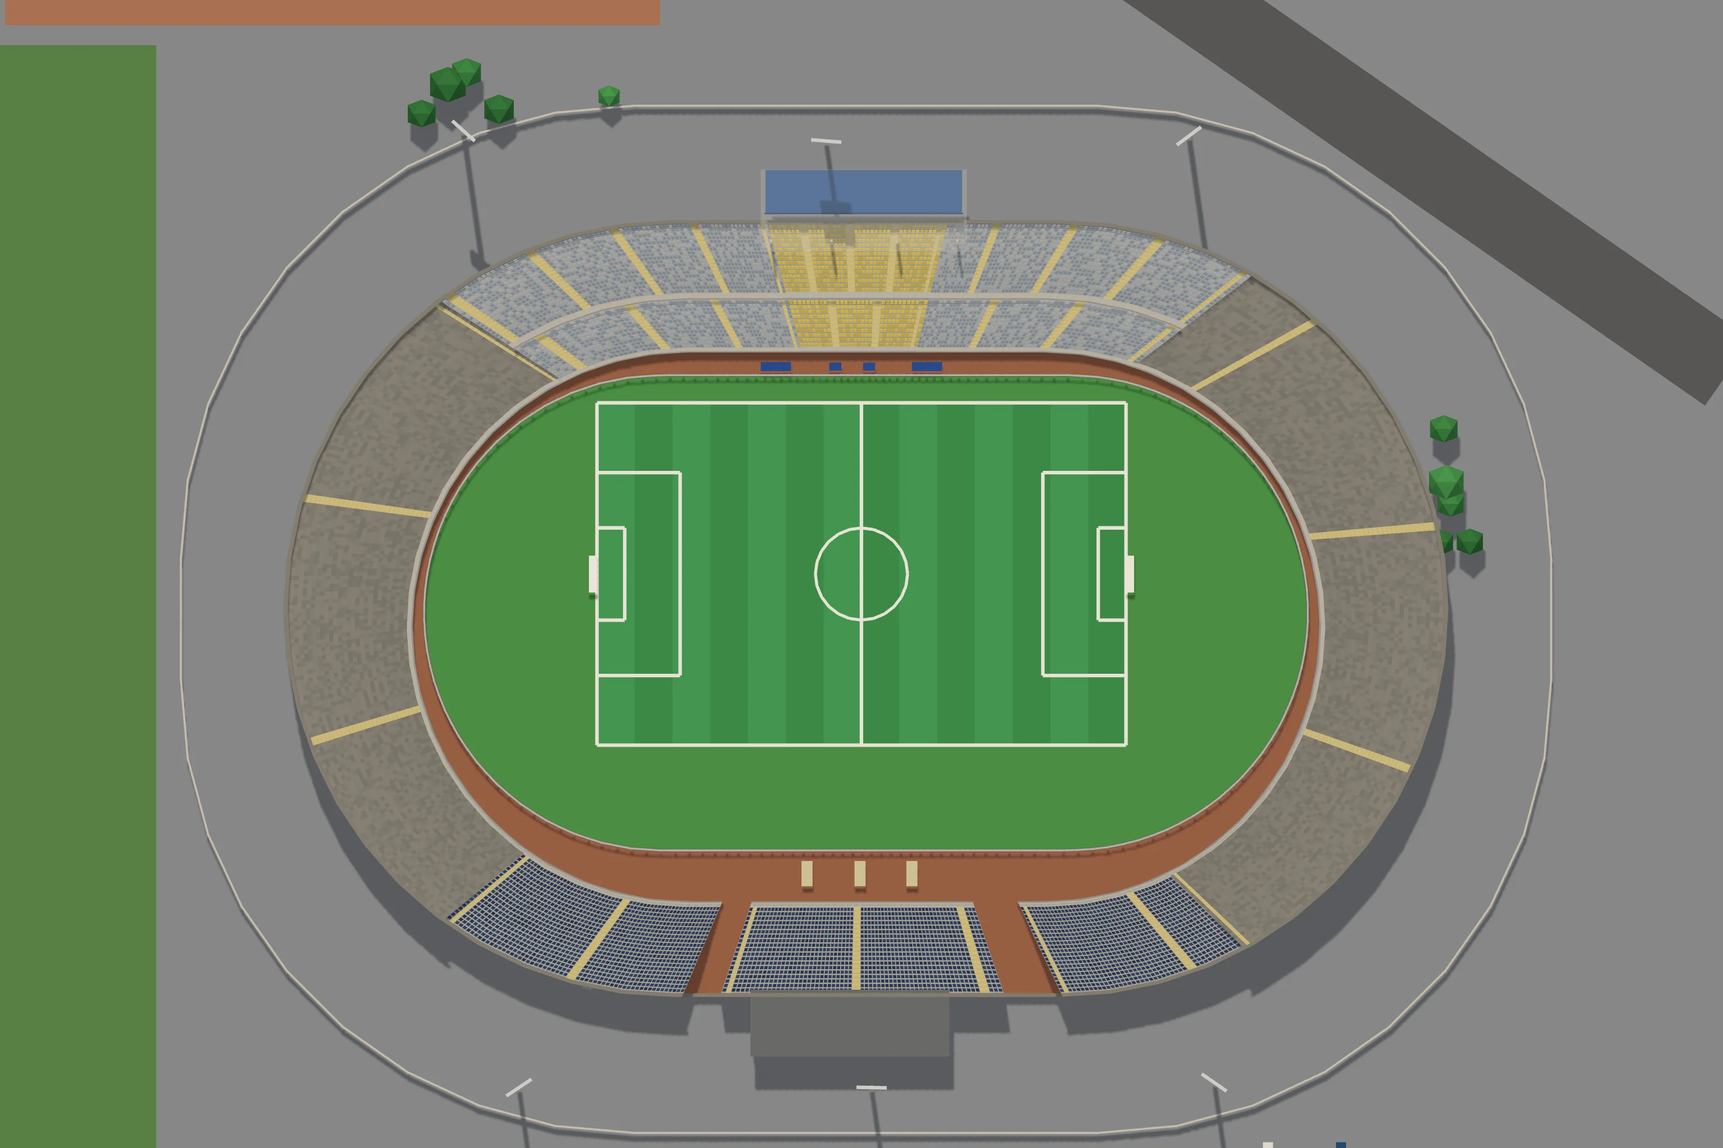
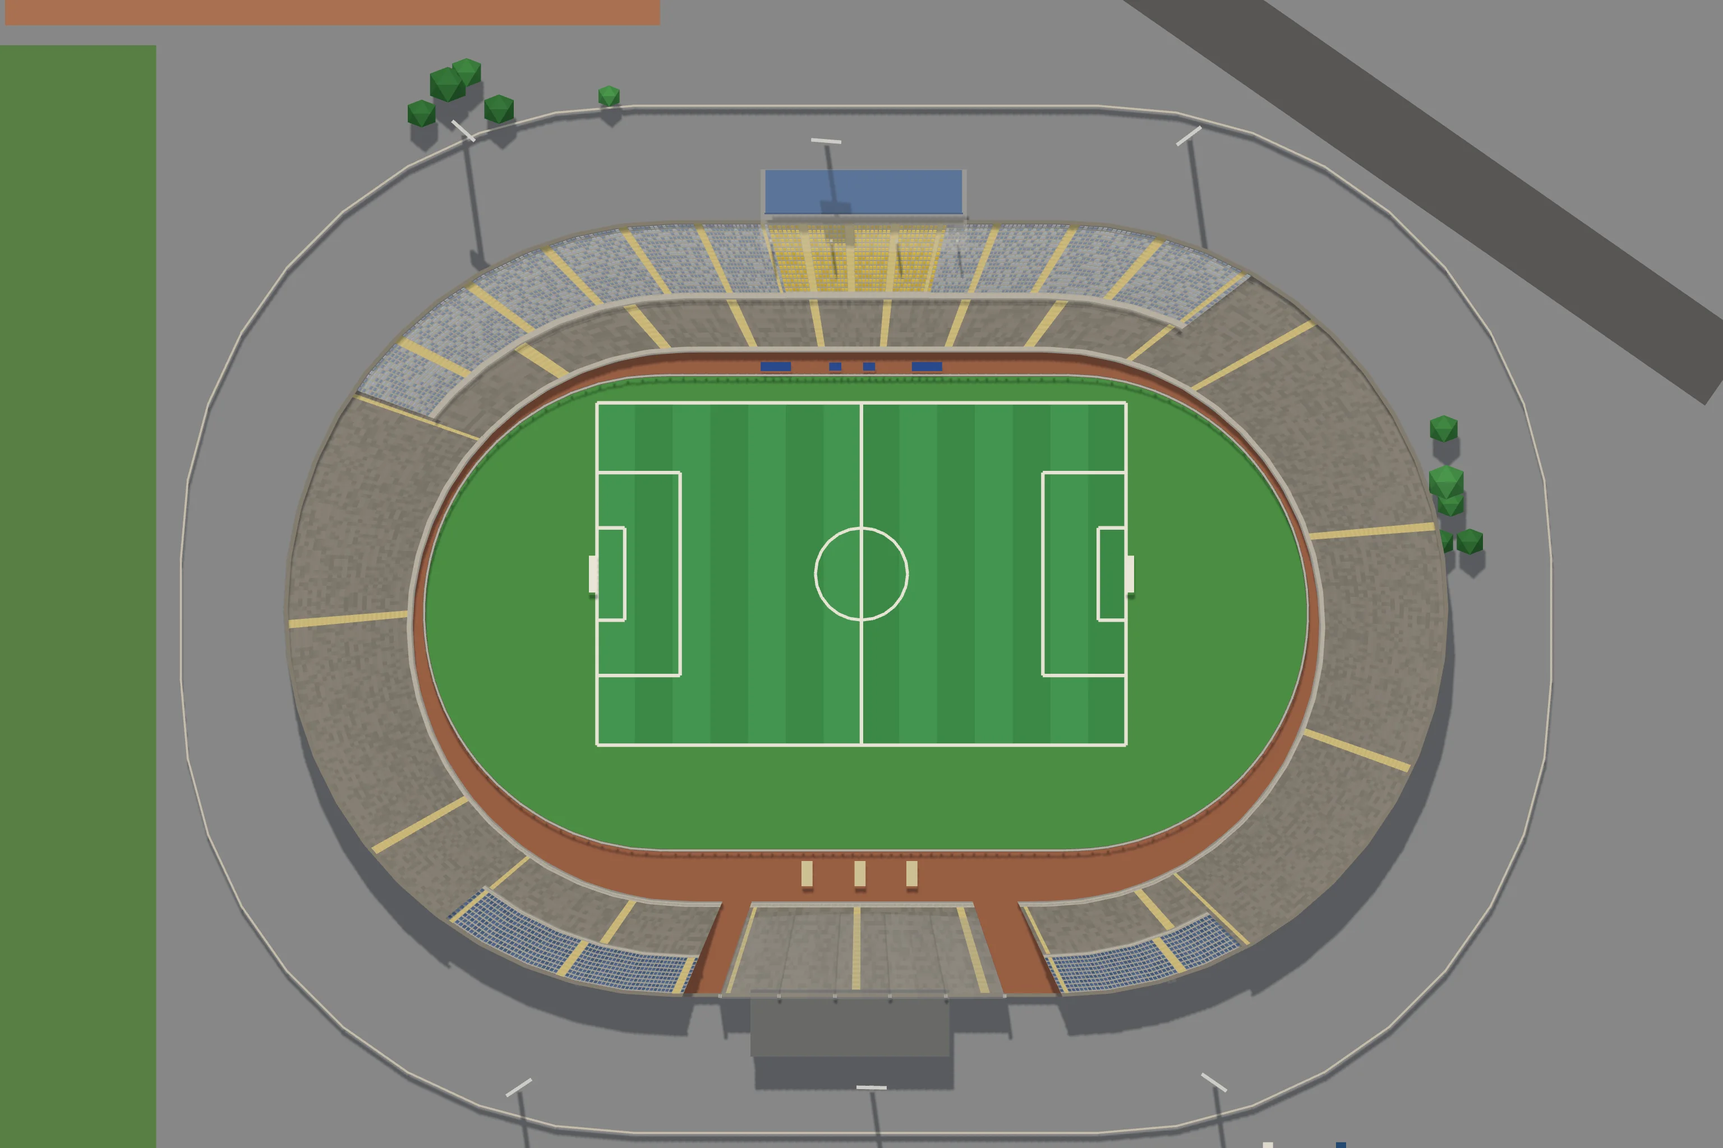
Serejão: cadeira só nos degraus de cima das laterais
Claude-Session: https://claude.ai/code/session_019hwwMAyyP7ZAvyq6wYTetr

diff --git a/cenario3d/planta.html b/cenario3d/planta.html
@@ -289,24 +289,24 @@ button:focus-visible, input:focus-visible { outline: 2px solid var(--selecao); o
 
 <script type="module">
 import * as THREE from 'https://cdn.jsdelivr.net/npm/three@0.160.0/build/three.module.min.js';
-import { planoDaCasa, montarCasa, juntarBlocos, lugarDoDecalque, placasDoLote, segmentosDoMuro, carrosDoEstacionamento, portaoDoEstacionamento } from './js/casas3d.js?v=487b9dc177';
-import { montarModelos } from './js/modelos3d.js?v=487b9dc177';
-import { moldeDaPeca, comTransformador } from './js/props3d.js?v=487b9dc177';
-import { ATLAS } from './js/modelos_atlas.js?v=487b9dc177';
-import { Construtor, sorteio } from './js/construtor3d.js?v=487b9dc177';
-import { gerarProposta, MAPAS, MAPA_DO_PORTE, RUA, LONGE_DO_ESTADIO_M, cisaoDaPraca, VAO_CIDADES_M, PRAIA_A_MAIS } from './js/proposta.js?v=487b9dc177';
-import { montarSede, nivelQueCabe } from './js/sede3d.js?v=487b9dc177';
-import { onibus as onibusDetalhe, juntar as juntarDetalhe } from './js/detalhe3d.js?v=487b9dc177';
-import { montarLoteDeVeraneio, plantaDoLote, festaNoMundo, noMundoDoLote, cenaDaFesta, detalheDaCasaDaFesta } from './js/veraneio3d.js?v=487b9dc177';
-import { montarCaravana, cenaDaCaravana } from './js/caravana3d.js?v=487b9dc177';
-import { montarEstacao, montarTunel, montarCarro, TREM } from './js/metro3d.js?v=487b9dc177';
-import { montarShopping, montarDelegacia, montarPraca, montarIgreja, montarEscola, montarHospital } from './js/equip3d.js?v=487b9dc177';
-import { montarEquipAntigo, TIPOS_ANTIGOS } from './js/equip_antigo3d.js?v=487b9dc177';
-import { PECAS_PRAIA, montarPecaDaPraia } from './js/praia3d.js?v=487b9dc177';
-import { ESPECIES_LP, FLORA_LP, montarArvoreLowpoly, montarAsDez, facesDaArvore, especieLowpolyDe } from './js/arvores_lowpoly.js?v=487b9dc177';
-import { plantarMato, montarMato, LONGE_M, DENSIDADE, LADRILHO_M } from './js/mato3d.js?v=487b9dc177';
-import { ESTADIOS_JOGO, montarEstadioJogo, glbDoEstadio, cortarEstadio, plantaDoEstadio, modeloDaLotacao, nomeDoLetreiro, nomeComAcento, marcaDoEstadio, BOCAS_DOS_PORTOES, BILHETERIAS_DA_RUA } from './js/estadios3d.js?v=487b9dc177';
-import { PECAS_AMBULANTES, montarAmbulante } from './js/ambulantes3d.js?v=487b9dc177';
+import { planoDaCasa, montarCasa, juntarBlocos, lugarDoDecalque, placasDoLote, segmentosDoMuro, carrosDoEstacionamento, portaoDoEstacionamento } from './js/casas3d.js?v=b291f77d5a';
+import { montarModelos } from './js/modelos3d.js?v=b291f77d5a';
+import { moldeDaPeca, comTransformador } from './js/props3d.js?v=b291f77d5a';
+import { ATLAS } from './js/modelos_atlas.js?v=b291f77d5a';
+import { Construtor, sorteio } from './js/construtor3d.js?v=b291f77d5a';
+import { gerarProposta, MAPAS, MAPA_DO_PORTE, RUA, LONGE_DO_ESTADIO_M, cisaoDaPraca, VAO_CIDADES_M, PRAIA_A_MAIS } from './js/proposta.js?v=b291f77d5a';
+import { montarSede, nivelQueCabe } from './js/sede3d.js?v=b291f77d5a';
+import { onibus as onibusDetalhe, juntar as juntarDetalhe } from './js/detalhe3d.js?v=b291f77d5a';
+import { montarLoteDeVeraneio, plantaDoLote, festaNoMundo, noMundoDoLote, cenaDaFesta, detalheDaCasaDaFesta } from './js/veraneio3d.js?v=b291f77d5a';
+import { montarCaravana, cenaDaCaravana } from './js/caravana3d.js?v=b291f77d5a';
+import { montarEstacao, montarTunel, montarCarro, TREM } from './js/metro3d.js?v=b291f77d5a';
+import { montarShopping, montarDelegacia, montarPraca, montarIgreja, montarEscola, montarHospital } from './js/equip3d.js?v=b291f77d5a';
+import { montarEquipAntigo, TIPOS_ANTIGOS } from './js/equip_antigo3d.js?v=b291f77d5a';
+import { PECAS_PRAIA, montarPecaDaPraia } from './js/praia3d.js?v=b291f77d5a';
+import { ESPECIES_LP, FLORA_LP, montarArvoreLowpoly, montarAsDez, facesDaArvore, especieLowpolyDe } from './js/arvores_lowpoly.js?v=b291f77d5a';
+import { plantarMato, montarMato, LONGE_M, DENSIDADE, LADRILHO_M } from './js/mato3d.js?v=b291f77d5a';
+import { ESTADIOS_JOGO, montarEstadioJogo, glbDoEstadio, cortarEstadio, plantaDoEstadio, modeloDaLotacao, nomeDoLetreiro, nomeComAcento, marcaDoEstadio, BOCAS_DOS_PORTOES, BILHETERIAS_DA_RUA } from './js/estadios3d.js?v=b291f77d5a';
+import { PECAS_AMBULANTES, montarAmbulante } from './js/ambulantes3d.js?v=b291f77d5a';
 
 const $ = id => document.getElementById(id);
 const aviso = $('aviso');
@@ -323,25 +323,25 @@ function carregarScript(src) {
 }
 window.TO = window.TO || { dados: {} };
 try {
-  await carregarScript('dados/torcidas.js?v=487b9dc177');
-  await carregarScript('dados/times.js?v=487b9dc177');
-  await carregarScript('dados/cena_estadio.js?v=487b9dc177');
-  await carregarScript('dados/cidades.js?v=487b9dc177');
-  await carregarScript('dados/estadios.js?v=487b9dc177');
-  await carregarScript('dados/escudos.js?v=487b9dc177');
+  await carregarScript('dados/torcidas.js?v=b291f77d5a');
+  await carregarScript('dados/times.js?v=b291f77d5a');
+  await carregarScript('dados/cena_estadio.js?v=b291f77d5a');
+  await carregarScript('dados/cidades.js?v=b291f77d5a');
+  await carregarScript('dados/estadios.js?v=b291f77d5a');
+  await carregarScript('dados/escudos.js?v=b291f77d5a');
   /* o manifesto das faixas de verdade (a arte do dono, 29/09/2026): a arquibancada estende a da torcida */
-  await carregarScript('dados/faixas.js?v=487b9dc177').catch(() => {});
+  await carregarScript('dados/faixas.js?v=b291f77d5a').catch(() => {});
   /* O DOMÍNIO DOS BAIRROS (o dono, 30/09/2026): as sedes repetidas num
      bairro saem espalhadas (nos dados, na carga) e os bares ganham o
      bairro deles — o mesmo módulo do jogo (js/mundo/dominio.js) */
-  await carregarScript('js/dominio.js?v=487b9dc177').catch(() => {});
+  await carregarScript('js/dominio.js?v=b291f77d5a').catch(() => {});
 } catch (e) {
   aviso.textContent = 'A planta da cidade não carregou (' + e.message + '). Recarregue a página.';
   throw e;
 }
 /* os PNG dos escudos, embutidos (o montar.sh gera): sem o arquivo, o
    caminho vai direto pra img/escudos/ */
-await carregarScript('dados/escudos_embutidos.js?v=487b9dc177').catch(() => {});
+await carregarScript('dados/escudos_embutidos.js?v=b291f77d5a').catch(() => {});
 const P = TO.dados.plantaEstadio, K = P.CIDADE, M = P.METRO, CALC = K.CALC;
 /* o mapa da vez (o pequeno, o médio ou o grande, montado pra praça
    escolhida): quem monta é usarMapa, lá embaixo */

diff --git a/cenario3d/dados/estadios_cenas.js b/cenario3d/dados/estadios_cenas.js
@@ -16390,8 +16390,8 @@ window.__ESTADIOS = {
    "visitante": 3
   },
   "foto": {
-   "imagem": "img/cenas/estadio_serejao.webp?v=6e02911c",
-   "mascara": "384;384;384;384;384;384;384;384;384;384;384;384;384;384;384;384;384;384;384;384;384;384;384;384;384;384;384;384;384;384;384;384;384;384;384;384;384;384;384;384;384;384;384;384;384;384;384;384;384;384;138,110,136;133,120,131;128,130,126;125,136,123;122,142,120;119,148,117;116,154,114;114,158,112;112,162,110;110,166,108;108,170,106;106,175,103;105,178,101;103,181,100;102,184,98;100,187,97;99,190,95;96,194,94;95,196,93;94,198,92;93,200,91;91,204,89;90,206,88;89,208,87;88,210,86;87,212,85;86,214,84;85,216,83;85,216,83;84,218,82;83,220,81;82,222,80;81,224,79;80,61,104,61,78;80,56,114,56,78;79,53,122,53,77;78,51,128,51,76;78,48,134,48,76;77,47,138,47,75;76,46,142,46,74;76,44,146,44,74;75,44,148,44,73;75,42,152,43,72;74,42,154,42,72;74,41,156,41,72;73,40,160,40,71;73,39,162,39,71;72,39,164,39,70;72,38,166,38,70;71,38,168,38,69;71,37,170,37,69;70,37,172,37,68;70,36,174,36,68;69,37,174,37,67;69,36,176,36,67;69,35,178,35,67;68,35,180,35,66;68,35,180,35,66;68,34,182,34,66;67,34,184,34,65;67,34,184,34,65;67,33,186,33,65;66,34,186,34,64;66,33,188,33,64;66,33,188,33,64;66,32,190,32,64;65,33,190,33,63;65,32,192,32,63;65,32,192,32,63;65,32,192,32,63;65,31,194,31,63;64,32,194,32,62;64,32,194,32,62;64,31,196,31,62;64,31,196,31,62;64,31,196,31,62;64,31,196,31,62;64,31,196,31,62;64,30,198,30,62;64,30,198,31,61;63,31,198,31,61;63,31,198,31,61;63,31,198,31,61;63,31,198,31,61;63,31,198,31,61;63,31,198,31,61;63,31,198,31,61;63,31,198,31,61;63,31,198,31,61;63,31,198,31,61;63,31,198,31,61;63,31,198,31,61;64,30,198,30,62;64,30,198,30,62;64,30,198,30,62;64,31,196,31,62;64,31,196,31,62;64,31,196,31,62;64,31,196,31,62;64,31,196,31,62;65,31,194,32,62;65,31,194,31,63;65,31,194,31,63;65,32,192,32,63;65,32,192,32,63;66,31,192,32,63;66,32,190,32,64;66,32,190,32,64;66,33,188,33,64;66,33,188,33,64;67,33,186,33,65;67,33,186,33,65;67,34,184,34,65;68,33,184,33,66;68,34,182,34,66;68,34,182,34,66;69,34,180,34,67;69,35,178,35,67;70,34,178,35,67;70,35,176,35,68;70,36,174,36,68;71,36,172,36,69;71,37,170,37,69;72,37,168,37,70;72,38,166,38,70;73,38,164,38,71;73,39,162,39,71;74,39,160,39,72;74,40,158,40,72;75,41,155,40,73;76,41,152,42,73;76,42,150,42,74;77,43,146,43,75;78,44,142,45,75;78,46,138,46,76;79,47,134,47,77;80,48,130,49,77;80,51,124,51,78;81,53,118,53,79;82,57,108,57,80;83,220,81;83,220,81;84,218,82;85,216,83;86,214,84;87,212,85;88,210,86;89,208,87;90,206,88;91,204,89;92,202,90;93,200,91;94,198,92;96,194,94;97,192,95;98,190,96;100,186,98;101,184,99;103,180,101;104,178,102;106,174,104;108,170,106;110,166,108;112,162,110;114,158,112;116,154,114;118,150,116;121,144,119;124,138,122;128,130,126;133,120,131;138,110,136;384;384;384;384;384;384;384;384;384;384;384;384;384;384;384;384;384;384;384;384;384;384;384;384;384;384;384;384;384;384;384;384;384;384"
+   "imagem": "img/cenas/estadio_serejao.webp?v=9d9e049d",
+   "mascara": "384;384;384;384;384;384;384;384;384;384;384;384;384;384;384;384;384;384;384;384;384;384;384;384;384;384;384;384;384;384;384;384;384;384;384;384;384;384;384;384;384;384;384;384;384;384;384;384;384;384;138,110,136;133,120,131;128,130,126;125,136,123;122,142,120;119,148,117;116,154,114;114,158,112;112,162,110;110,166,108;108,170,106;106,175,103;105,178,101;103,181,100;102,184,98;100,187,97;99,190,95;97,193,94;96,195,93;95,197,92;94,199,91;93,202,89;91,205,88;90,207,87;89,209,86;88,211,85;87,213,84;87,214,83;86,215,83;85,217,82;84,219,81;83,221,80;82,223,79;81,60,104,61,78;81,55,114,56,78;80,52,122,53,77;79,50,128,51,76;78,48,134,48,76;77,47,138,47,75;76,46,142,46,74;76,44,146,44,74;75,44,148,44,73;75,42,152,43,72;74,42,154,42,72;74,41,156,41,72;73,40,160,40,71;73,39,162,39,71;72,39,164,39,70;72,38,166,38,70;71,38,168,38,69;71,37,170,37,69;70,37,172,37,68;70,36,174,36,68;69,37,174,37,67;69,36,176,36,67;69,35,178,35,67;68,35,180,35,66;68,35,180,35,66;68,34,182,34,66;67,34,184,34,65;67,34,184,34,65;67,33,186,33,65;66,34,186,34,64;66,33,188,33,64;66,33,188,33,64;66,32,190,32,64;65,33,190,33,63;65,32,192,32,63;65,32,192,32,63;65,32,192,32,63;65,31,194,31,63;64,32,194,32,62;64,32,194,32,62;64,31,196,31,62;64,31,196,31,62;64,31,196,31,62;64,31,196,31,62;64,31,196,31,62;64,30,198,30,62;64,30,198,31,61;63,31,198,31,61;63,31,198,31,61;63,31,198,31,61;63,31,198,31,61;63,31,198,31,61;63,31,198,31,61;63,31,198,31,61;63,31,198,31,61;63,31,198,31,61;63,31,198,31,61;63,31,198,31,61;63,31,198,31,61;64,30,198,30,62;64,30,198,30,62;64,30,198,30,62;64,31,196,31,62;64,31,196,31,62;64,31,196,31,62;64,31,196,31,62;64,31,196,31,62;65,31,194,32,62;65,31,194,31,63;65,31,194,31,63;65,32,192,32,63;65,32,192,32,63;66,31,192,32,63;66,32,190,32,64;66,32,190,32,64;66,33,188,33,64;66,33,188,33,64;67,33,186,33,65;67,33,186,33,65;67,34,184,34,65;68,33,184,33,66;68,34,182,34,66;68,34,182,34,66;69,34,180,34,67;69,35,178,35,67;70,34,178,35,67;70,35,176,35,68;70,36,174,36,68;71,36,172,36,69;71,37,170,37,69;72,37,168,37,70;72,38,166,38,70;73,38,164,38,71;73,39,162,39,71;74,39,160,39,72;74,40,158,40,72;75,41,155,40,73;76,41,152,42,73;76,42,150,42,74;77,43,146,43,75;78,44,142,45,75;78,46,138,46,76;79,47,134,47,77;80,48,130,49,77;80,51,124,51,78;81,53,118,53,79;82,57,108,57,80;83,220,81;83,220,81;84,218,82;85,216,83;86,214,84;87,212,85;88,210,86;89,208,87;90,206,88;91,204,89;92,202,90;93,200,91;94,198,92;96,194,94;97,192,95;100,188,96;101,185,98;103,182,99;104,179,101;106,176,102;107,173,104;109,169,106;111,164,109;113,160,111;115,156,113;118,150,116;121,144,119;124,138,122;127,132,125;131,124,129;136,114,134;147,92,145;384;384;384;384;384;384;384;384;384;384;384;384;384;384;384;384;384;384;384;384;384;384;384;384;384;384;384;384;384;384;384;384;384;384"
   },
   "cena": {
    "nome": "Serejão",
@@ -16597,8 +16597,8 @@ window.__ESTADIOS = {
       "y": 702
      },
      "ate": {
-      "x": 762,
-      "y": 545
+      "x": 765,
+      "y": 547
      },
      "modulos": 11,
      "espessura": 10

diff --git a/cenario3d/js/jogo2d.js b/cenario3d/js/jogo2d.js
@@ -17,7 +17,7 @@
    cartão da partida cai perto da hora da bola e nada do que conta o
    placar passa na frente dele.
    ========================================================= */
-import { CASCA } from './jogo_casca.js?v=487b9dc177';
+import { CASCA } from './jogo_casca.js?v=b291f77d5a';
 
 const carregarScript = src => new Promise((ok, erro) => {
   const s = document.createElement('script');
@@ -31,18 +31,18 @@ async function montarJogo() {
   caixa.innerHTML = CASCA;
   while (caixa.firstChild) document.body.appendChild(caixa.firstChild);
   /* os escudos, as fotos das praças e as bandeiras embutidos (o `IMG()` do jogo procura aqui antes do caminho) */
-  await carregarScript('dados/imagens_jogo.js?v=487b9dc177').catch(() => {});
+  await carregarScript('dados/imagens_jogo.js?v=b291f77d5a').catch(() => {});
   /* os estádios low-poly das cenas (ferramentas/estadios/assar.js): antes do jogo, que monta as cenas quando carrega */
-  await carregarScript('dados/estadios_cenas.js?v=487b9dc177').catch(() => {});
-  await carregarScript('dados/arredores_cenas.js?v=487b9dc177').catch(() => {});
+  await carregarScript('dados/estadios_cenas.js?v=b291f77d5a').catch(() => {});
+  await carregarScript('dados/arredores_cenas.js?v=b291f77d5a').catch(() => {});
   /* sem o rolo do feed: a tela entre os jogos é o portal */
   window.TO = window.TO || {};
   TO.semFeed = true;
-  await carregarScript('js/jogo.js?v=487b9dc177');
-  await carregarScript('js/portal.js?v=487b9dc177').catch(err => console.error('o portal não carregou:', err));
+  await carregarScript('js/jogo.js?v=b291f77d5a');
+  await carregarScript('js/portal.js?v=b291f77d5a').catch(err => console.error('o portal não carregou:', err));
   /* o boneco das cenas de imagem (os dois níveis afinados, em base64) */
-  if (!TO.dados.bonecoPertoGLB) await carregarScript('dados/boneco_glb.js?v=487b9dc177').catch(() => {});
-  await import('./bonecos3_global.js?v=487b9dc177').catch(err => console.error('o boneco das cenas não carregou:', err));
+  if (!TO.dados.bonecoPertoGLB) await carregarScript('dados/boneco_glb.js?v=b291f77d5a').catch(() => {});
+  await import('./bonecos3_global.js?v=b291f77d5a').catch(err => console.error('o boneco das cenas não carregou:', err));
   ligar();
 }
 

diff --git a/cenario3d/jogo.html b/cenario3d/jogo.html
@@ -9,16 +9,16 @@
 <link rel="preconnect" href="https://fonts.googleapis.com">
 <link rel="preconnect" href="https://fonts.gstatic.com" crossorigin>
 <link rel="stylesheet" href="https://fonts.googleapis.com/css2?family=Barlow+Semi+Condensed:wght@500;600;700&family=Barlow:wght@400;500;600&family=IBM+Plex+Mono:wght@400;500&display=swap">
-<link rel="stylesheet" href="css/jogo.css?v=487b9dc177">
-<link rel="stylesheet" href="css/jogo3d.css?v=487b9dc177">
-<link rel="stylesheet" href="css/portal.css?v=487b9dc177">
-<link rel="stylesheet" href="css/telas3d.css?v=487b9dc177">
+<link rel="stylesheet" href="css/jogo.css?v=b291f77d5a">
+<link rel="stylesheet" href="css/jogo3d.css?v=b291f77d5a">
+<link rel="stylesheet" href="css/portal.css?v=b291f77d5a">
+<link rel="stylesheet" href="css/telas3d.css?v=b291f77d5a">
 <style>
 [hidden] { display: none !important; }
 html, body { height: 100%; margin: 0; }
 </style>
 </head>
 <body class="jogo3d">
-<script type="module" src="js/jogo2d.js?v=487b9dc177"></script>
+<script type="module" src="js/jogo2d.js?v=b291f77d5a"></script>
 </body>
 </html>

diff --git a/cenario3d/js/casas3d.js b/cenario3d/js/casas3d.js
@@ -60,10 +60,10 @@
    avançam (`rec`), e o letreiro, a pixação e a falha de reboco do
    bairro vão pro plano dessa parede, não pro da divisa.
    ========================================================= */
-import { Construtor, METRO, mureta, toldo, arSplit, sorteio } from './construtor3d.js?v=487b9dc177';
-import { ATLAS } from './modelos_atlas.js?v=487b9dc177';
+import { Construtor, METRO, mureta, toldo, arSplit, sorteio } from './construtor3d.js?v=b291f77d5a';
+import { ATLAS } from './modelos_atlas.js?v=b291f77d5a';
 /* as lojas do assalto (lojas3d.js): modelos de lote como os outros */
-import { TIPOS_LOJA, REC_LOJA, placaDaLoja } from './lojas3d.js?v=487b9dc177';
+import { TIPOS_LOJA, REC_LOJA, placaDaLoja } from './lojas3d.js?v=b291f77d5a';
 
 /* o arquivo de cada folha, pro bairro montar o material dele */
 export const arquivoDaFolha = folha => ATLAS[folha].arquivo;

diff --git a/cenario3d/js/ambulantes3d.js b/cenario3d/js/ambulantes3d.js
@@ -27,8 +27,8 @@
    que a planta acha o lugar dela na calçada do estádio. `sol`: o meio e
    o raio da copa ([x, z, r]), que o mapa desenha de perto.
    ========================================================= */
-import { Construtor, noMundo, placasNoMundo, sorteio, esfera, unit } from './construtor3d.js?v=487b9dc177';
-import { Lugar, barra, tubo, cilindro, bloco, pano, toro, guardaSol, cadeiraPlastica, isopor, banqueta, CORES_SOL } from './praia3d.js?v=487b9dc177';
+import { Construtor, noMundo, placasNoMundo, sorteio, esfera, unit } from './construtor3d.js?v=b291f77d5a';
+import { Lugar, barra, tubo, cilindro, bloco, pano, toro, guardaSol, cadeiraPlastica, isopor, banqueta, CORES_SOL } from './praia3d.js?v=b291f77d5a';
 
 const AQUI = Lugar();
 const escolha = (rnd, lista) => lista[Math.floor(rnd() * lista.length) % lista.length];

diff --git a/cenario3d/js/praia3d.js b/cenario3d/js/praia3d.js
@@ -36,8 +36,8 @@
    cadeira e a mesa de plástico) servem também os ambulantes da porta do
    estádio (ambulantes3d.js), na mesma folha.
    ========================================================= */
-import { Construtor, METRO, lerp, sub, soma, esc, unit, pv, noMundo, placasNoMundo, sorteio, varrer, esfera } from './construtor3d.js?v=487b9dc177';
-import { montarArvoreLowpoly } from './arvores_lowpoly.js?v=487b9dc177';
+import { Construtor, METRO, lerp, sub, soma, esc, unit, pv, noMundo, placasNoMundo, sorteio, varrer, esfera } from './construtor3d.js?v=b291f77d5a';
+import { montarArvoreLowpoly } from './arvores_lowpoly.js?v=b291f77d5a';
 
 const ALTO = [0, 1, 0];
 const escolha = (rnd, lista) => lista[Math.floor(rnd() * lista.length) % lista.length];

diff --git a/cenario3d/js/modelos3d.js b/cenario3d/js/modelos3d.js
@@ -32,8 +32,8 @@
    requadro da janela, toldo, ar-condicionado. O resto é pintura.
    ========================================================= */
 import * as THREE from 'https://cdn.jsdelivr.net/npm/three@0.160.0/build/three.module.min.js';
-import { ATLAS } from './modelos_atlas.js?v=487b9dc177';
-import { Construtor, METRO, lerp, sub, soma, esc, pv, pe, unit, recuoPoligono, mureta, toldo, arSplit } from './construtor3d.js?v=487b9dc177';
+import { ATLAS } from './modelos_atlas.js?v=b291f77d5a';
+import { Construtor, METRO, lerp, sub, soma, esc, pv, pe, unit, recuoPoligono, mureta, toldo, arSplit } from './construtor3d.js?v=b291f77d5a';
 
 /* =======================================================
    1. A IGREJA MATRIZ

diff --git a/cenario3d/js/props3d.js b/cenario3d/js/props3d.js
@@ -26,8 +26,8 @@
    poste vira uma haste de longe; o resto, que é miúdo, some.
    ========================================================= */
 import * as THREE from 'https://cdn.jsdelivr.net/npm/three@0.160.0/build/three.module.min.js';
-import { ATLAS } from './modelos_atlas.js?v=487b9dc177';
-import { Construtor, METRO, lerp } from './construtor3d.js?v=487b9dc177';
+import { ATLAS } from './modelos_atlas.js?v=b291f77d5a';
+import { Construtor, METRO, lerp } from './construtor3d.js?v=b291f77d5a';
 
 /* as cores que o vértice dá pro que sai claro na folha */
 const COR_CESTO = ['#6aa33a', '#d2b53a', '#3f82ad', '#8b6a3c', '#b8452f'];

diff --git a/cenario3d/js/mato3d.js b/cenario3d/js/mato3d.js
@@ -19,8 +19,8 @@
 
    Tudo em metros; `noMundo` converte. A mesma semente dá o mesmo mato.
    ========================================================= */
-import { METRO, noMundo, sorteio } from './construtor3d.js?v=487b9dc177';
-import { facesDaArvore, especieLowpolyDe } from './arvores_lowpoly.js?v=487b9dc177';
+import { METRO, noMundo, sorteio } from './construtor3d.js?v=b291f77d5a';
+import { facesDaArvore, especieLowpolyDe } from './arvores_lowpoly.js?v=b291f77d5a';
 
 /* a área de chão de cada árvore (m²), por lugar */
 export const DENSIDADE = { mata: 70, cerrado: 200, caatinga: 150, sul: 90, praia: 120, cidade: 250 };

diff --git a/cenario3d/js/bonecos3_global.js b/cenario3d/js/bonecos3_global.js
@@ -14,7 +14,7 @@
    DOMContentLoaded: quem usa (a ponte, numa cena aberta pelo jogador)
    chega muito depois.
    ========================================================= */
-import { montar, desenharDeCima, desenharVitrine, limparDeCima, fotoDoTrofeu, fotoDaBriga, fotoDaCena, perdeu, bonecos } from './bonecos3_cena.js?v=487b9dc177';
+import { montar, desenharDeCima, desenharVitrine, limparDeCima, fotoDoTrofeu, fotoDaBriga, fotoDaCena, perdeu, bonecos } from './bonecos3_cena.js?v=b291f77d5a';
 
 window.TO = window.TO || {};
 TO.diaJogo = TO.diaJogo || {};

diff --git a/cenario3d/js/bonecos3_cena.js b/cenario3d/js/bonecos3_cena.js
@@ -103,7 +103,7 @@
       numa fase sorteada (quem sai junto não sai no mesmo pé).
    ========================================================= */
 import * as THREE from 'https://cdn.jsdelivr.net/npm/three@0.160.0/build/three.module.min.js';
-import { GLTFLoader, SkeletonUtils } from './GLTFLoader.js?v=487b9dc177';
+import { GLTFLoader, SkeletonUtils } from './GLTFLoader.js?v=b291f77d5a';
 
 /* onde o modelo mora, quando não vem embutido em base64: o detalhado
    (o do Blender) e os dois níveis afinados dele (ferramentas/afinar_boneco.mjs) */
